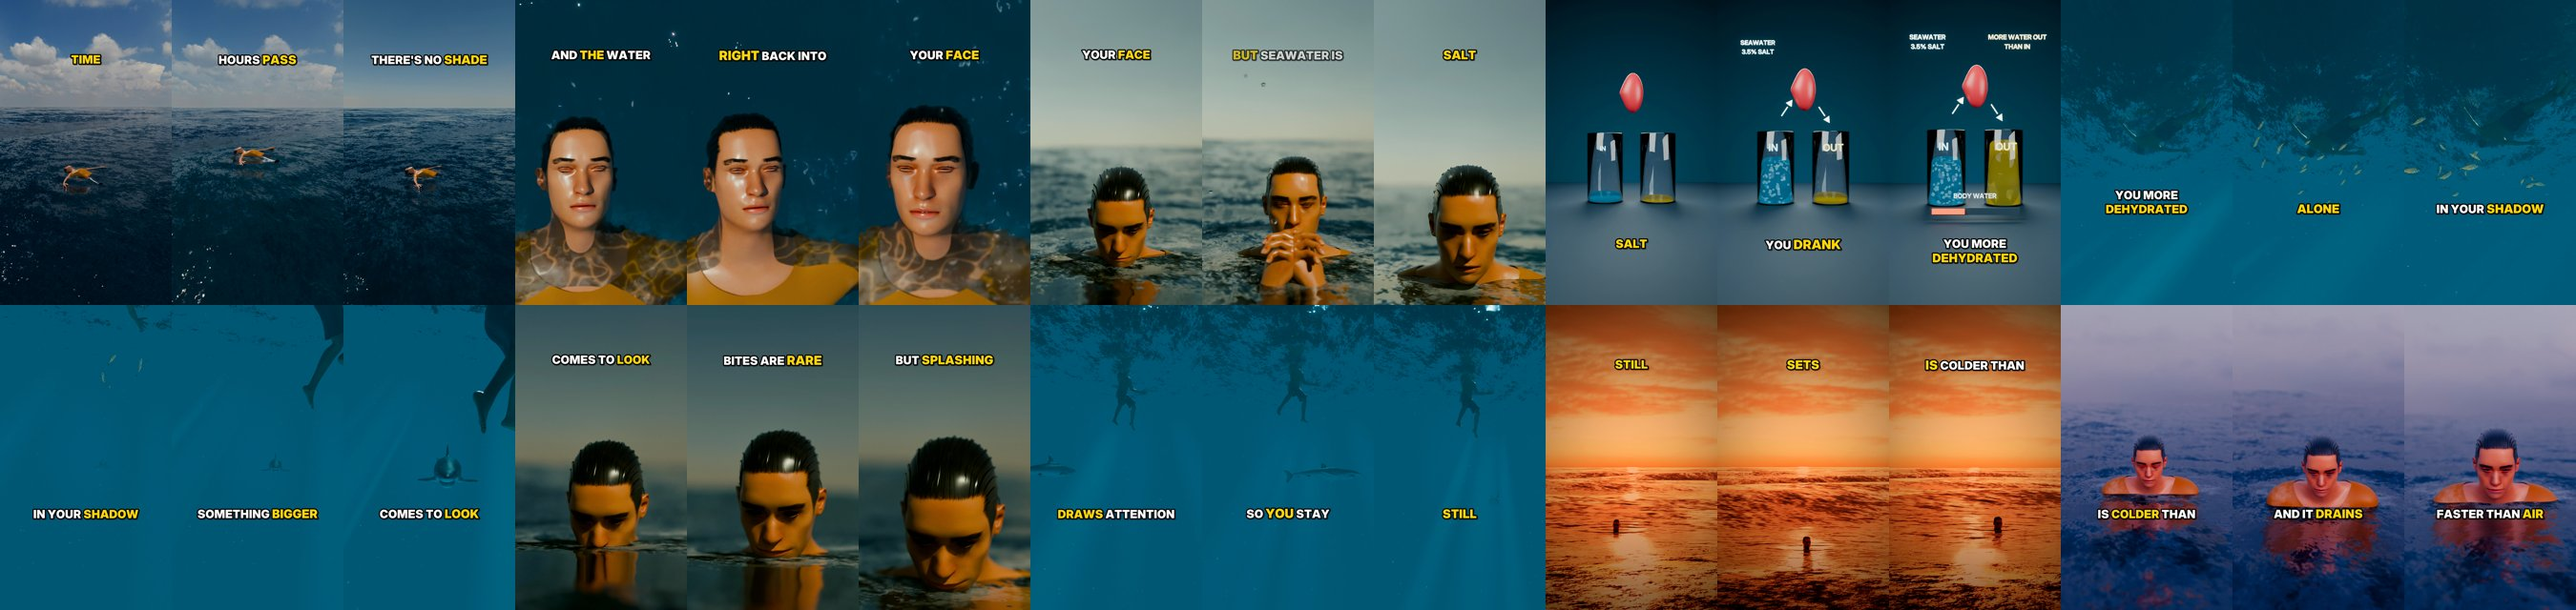
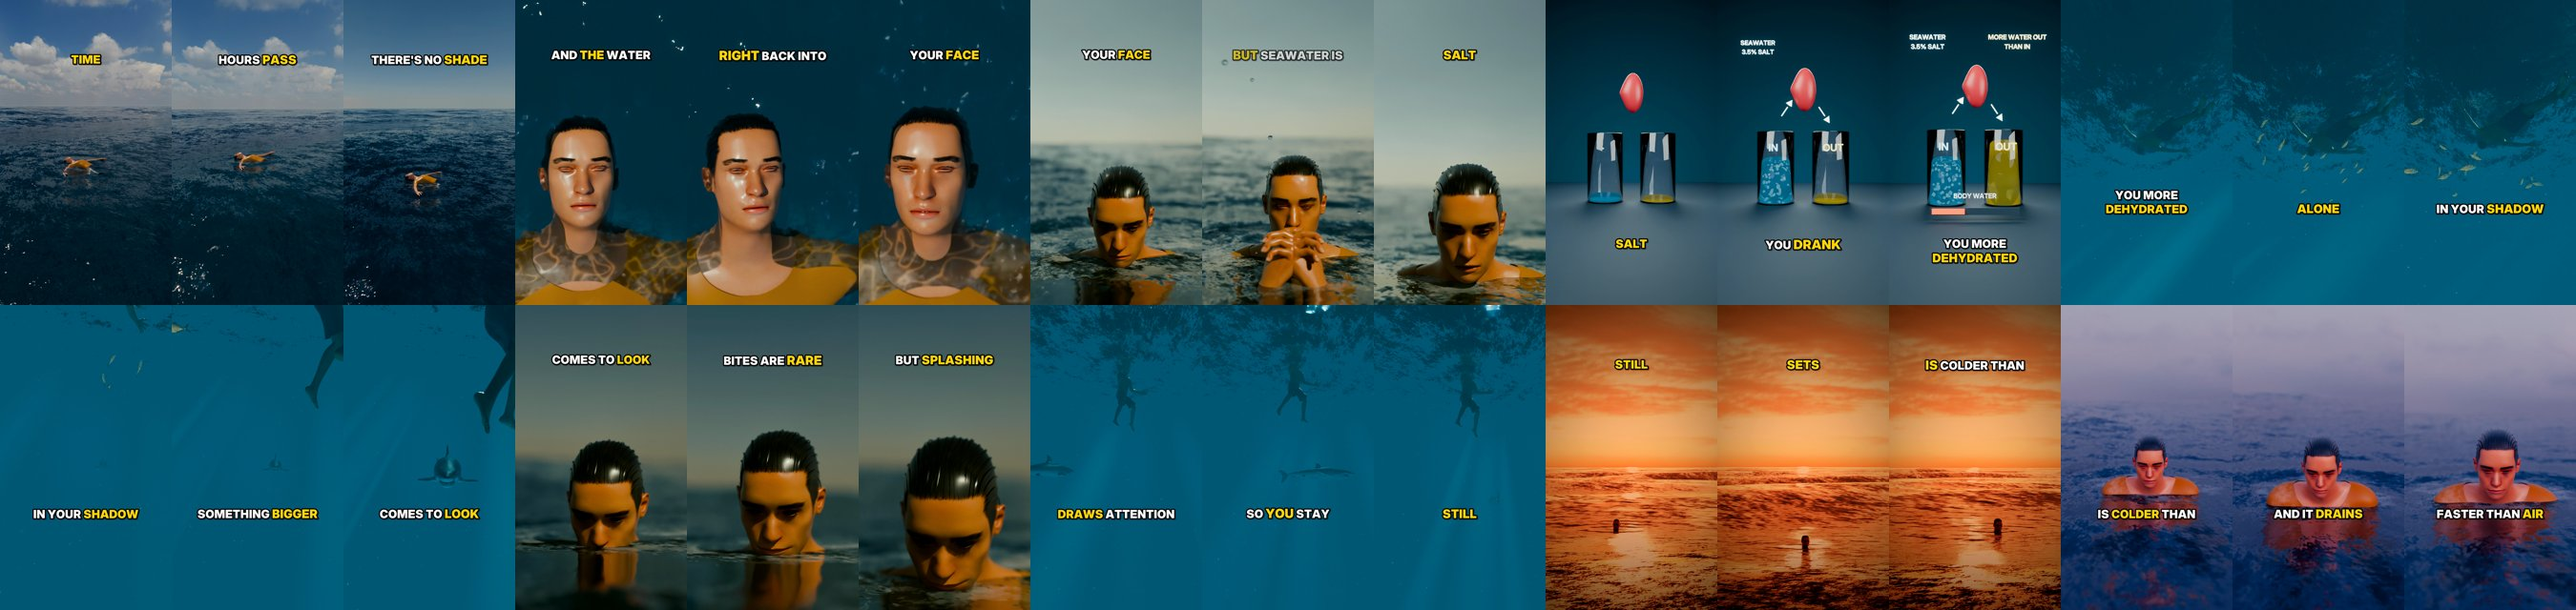
Final video: SH02 retime on a clean 30 fps timeline (exactly 3825 frames, cuts in sync with audio); review frames refreshed
Claude-Session: https://claude.ai/code/session_012bbVLuDpDcKMSrsGLCHFgq

diff --git a/blender/scripts/tools/assemble.py b/blender/scripts/tools/assemble.py
@@ -45,7 +45,7 @@ for sid, t0, t1, *_ in shots:
     if sid in RETIME:
         src_n = RETIME[sid]
         # minterpolate stops at the last source timestamp (n-2 frames): hold the last frame so the clip is exactly n long
-        vf = ('trim=end_frame=%d,setpts=(PTS-STARTPTS)*%d/%d,minterpolate=fps=30:mi_mode=mci:mc_mode=aobmc:me_mode=bidir:vsbmc=1,tpad=stop_mode=clone:stop=6,' % (src_n, n, src_n)) + vf
+        vf = ('trim=end_frame=%d,setpts=(PTS-STARTPTS)*%d/%d,minterpolate=fps=30:mi_mode=mci:mc_mode=aobmc:me_mode=bidir:vsbmc=1,tpad=stop_mode=clone:stop=6,setpts=N/(30*TB),' % (src_n, n, src_n)) + vf
     if sid in GRADE: vf += ',' + GRADE[sid]
     clip = TMP + sid + '.mkv'
     if only and sid not in only and os.path.exists(clip):
